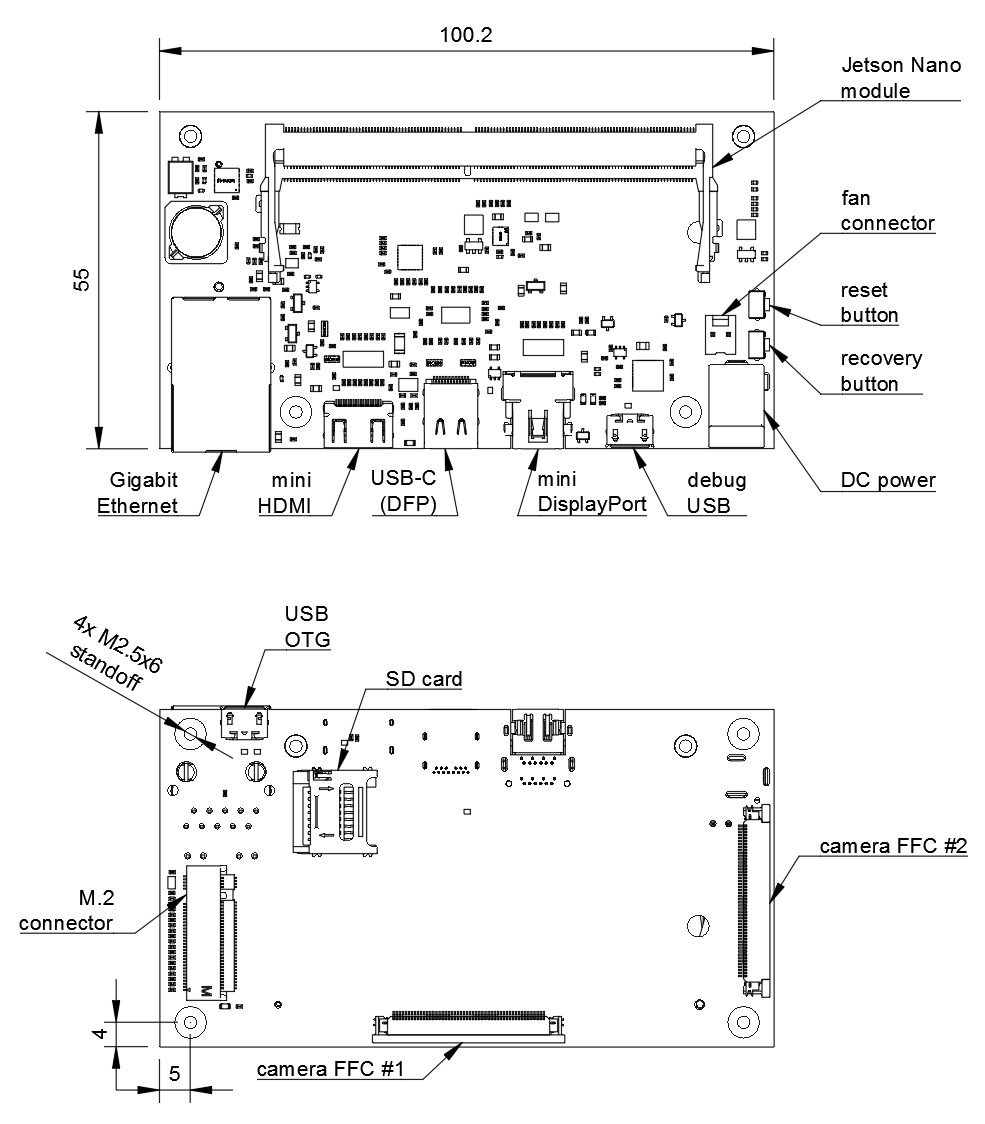
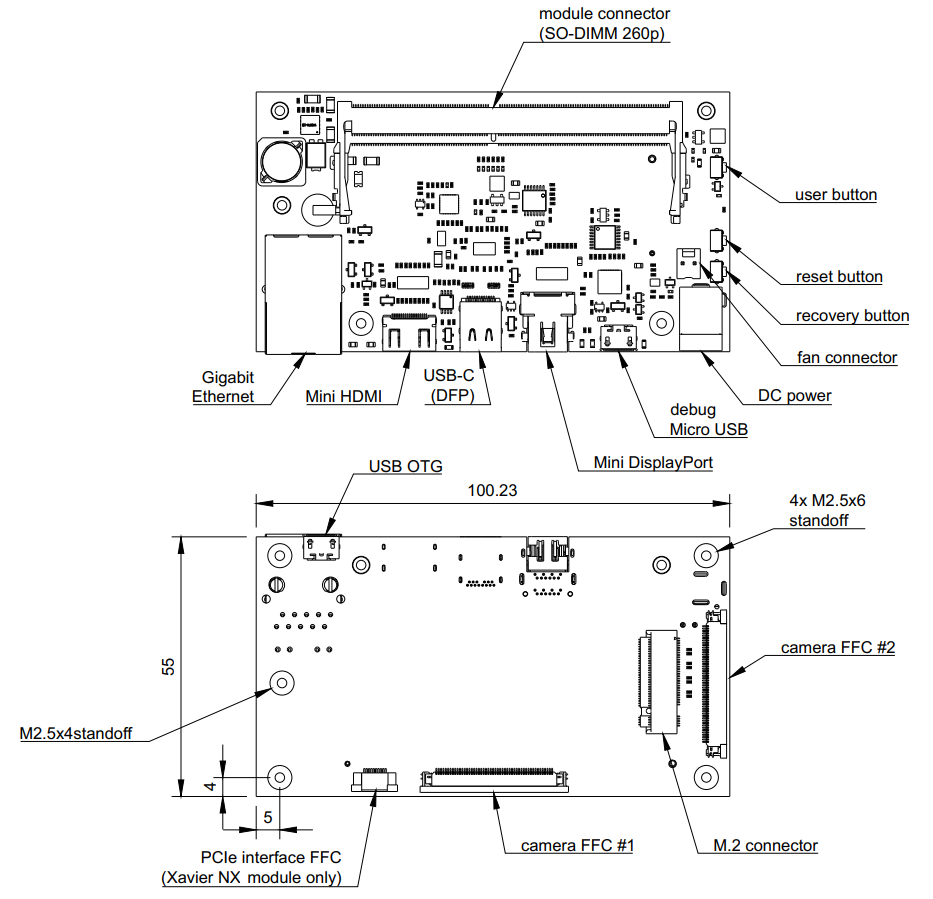
Update README

diff --git a/README.rst b/README.rst
@@ -2,35 +2,50 @@
 Jetson Nano / Xavier NX baseboard
 =================================
 
+Copyright (c) 2020 Antmicro <`www.antmicro.com <https://www.antmicro.com>`_>
+
 .. image:: Images/jetson-nano-baseboard.png
    :scale: 40%
 
 Overview
 ========
 
-This repository contains open hardware design files for a baseboard supporting the NVIDIA Jetson Nano SoM (as well as the upcoming Xavier NX SoM), created by `Antmicro <www.antmicro.com>`_, a custom hardware, software and AI engineering company and Jetson ecosystem partner of `NVIDIA <www.nvidia.com>`_.
-The board allows to interface with MIPI CSI-2 video devices through a unified Flexible Flat Cable (FFC) connector, supporting up to 4 sensors in a 2-lane configuration or 3 sensors in a 4-lane configuration.
+This repository contains open hardware design files for a baseboard supporting the NVIDIA Jetson Nano SoM as well as the upcoming Xavier NX SoM. It's been created by `Antmicro <www.antmicro.com>`_, a custom hardware, software and AI engineering company and a Jetson ecosystem partner of `NVIDIA <www.nvidia.com>`_.
+The board can be interfaced with MIPI CSI-2 video devices through a unified Flexible Flat Cable (FFC) connector, supporting up to 4 sensors in a 2-lane configuration or 3 sensors in a 4-lane configuration.
 Please refer to the ``Jetson Nano OEM Product Design Guide`` for more details regarding the supported CSI lane mappings.
+
+Repository structure:
+---------------------
+
+The main repository directory contains the Altium PCB project file, the Outjob file, LICENSE and README.
+The remaining files are stored in the following directories:
+
+* ``PCB`` -  contains all Altium design files
+* ``Libraries`` - contains the component libraries
+* ``Documentation`` - contains selected files for device fabrication (schematic in PDF, BoM) generated from the Altium project
+* ``Images`` - contains graphics for this README
+* ``3DModels`` - contains files defining the mechanical model of the assembled board
 
 Key features
 ============
 
-* Jetson Nano / Xavier NX SO-DIMM connector 
+* Jetson Nano / Xavier NX SO-DIMM connector
 * Gigabit Ethernet RJ45 connector
 * Micro USB debug connector
 * USB-C DFP (Host) port
 * Mini HDMI video output interface
-* Mini Displayport video output interface 
+* Mini DisplayPort video output interface
 * 2x 50-pin FFC connectors exposing up to 4 MIPI CSI-2 camera interfaces
-* SD/MMC card interface
-* M.2 PCIe connector
+* M.2 (key M) connector exposing PCIe x4 interface
+* RTC battery backup
+* EEPROM for storing board ID/SN
 
 The PCB project files were prepared in Altium Designer 14.1.
 
 Board layout & dimensions
 =========================
 
-The picture below presents the general layout of the PCB with IO interfaces marked.
+The picture below presents a general layout of the PCB with marked I/O interfaces.
 
 .. figure:: Images/jetson-nano-layout.png
 
@@ -39,15 +54,37 @@ Getting started
 
 The board can be produced and assembled using the provided design files.
 Please take a look at the mechanical layers for more information regarding the PCB stackup recommended for fabrication.
-The board accepts power supply voltage in the 6-36VDC range.
+The board can be powered by a voltage in the 6-36VDC range.
 It is recommended to use a 12V 2A DC supply to power the board.
-The board has an integrated power sequencer that starts the module automatically right after applying the power supply.
+The board has an integrated power sequencer that starts the module automatically right after applying power supply.
 
 Debug UART connection
 ---------------------
 
 Most of the debug messages are provided through the serial console.
-The board is equipped with an FTDI chip offering both UART interface to the host PC.
+The board is equipped with an FTDI chip providing the UART interface to the host PC.
 Please refer to the schematic sheets for more details.
 The default debug UART channel is accessible through ``/dev/ttyUSB0`` (assuming that there are no other FTDI units connected to your PC).
-The default baudrate for serial debug connection is 115200 baud with 8-bit transmission, 1 stop bit and with no flow control.
+The default baudrate for serial debug connection is 115200 baud with an 8-bit transmission, 1 stop bit and with no flow control.
+
+Revision info
+=============
+
+The latest revision of the PCB includes the following changes and amendments:
+
+* Introduced an 8-layer PCB stackup for a better separation of PCIe lanes
+* Rotated the M.2 connector by 180 degrees to keep it away from the on-board DC/DC
+* Changed the stacking height of the M.2 connector
+* Simplified the M.2 supporting circuitry
+* Exposed the ``CSI-G`` and ``PCIE1`` interfaces on the `Jetson Xavier NX <https://developer.nvidia.com/embedded/jetson-xavier-nx>`_
+* Updated FAN control circuitry
+* Changed GPIO assignment for camera-triggering signals
+* Optimized board cutout for the DisplayPort connector
+* Fine-tuned selected footprints to improve the reliability of the reflow soldering
+* Changed power sequencing of the on-board DC/DC converters
+* Fixed ``TPD8S009`` footprint
+* Removed MicroSD card socket
+* Updated ``USBC_VBUS`` control circuitry
+* Added EEPROM for SN/ID storage
+
+Please check the `releases <https://github.com/antmicro/jetson-nano-baseboard/releases>`_ for a brief summary of major changes introduced in previous revisions.
